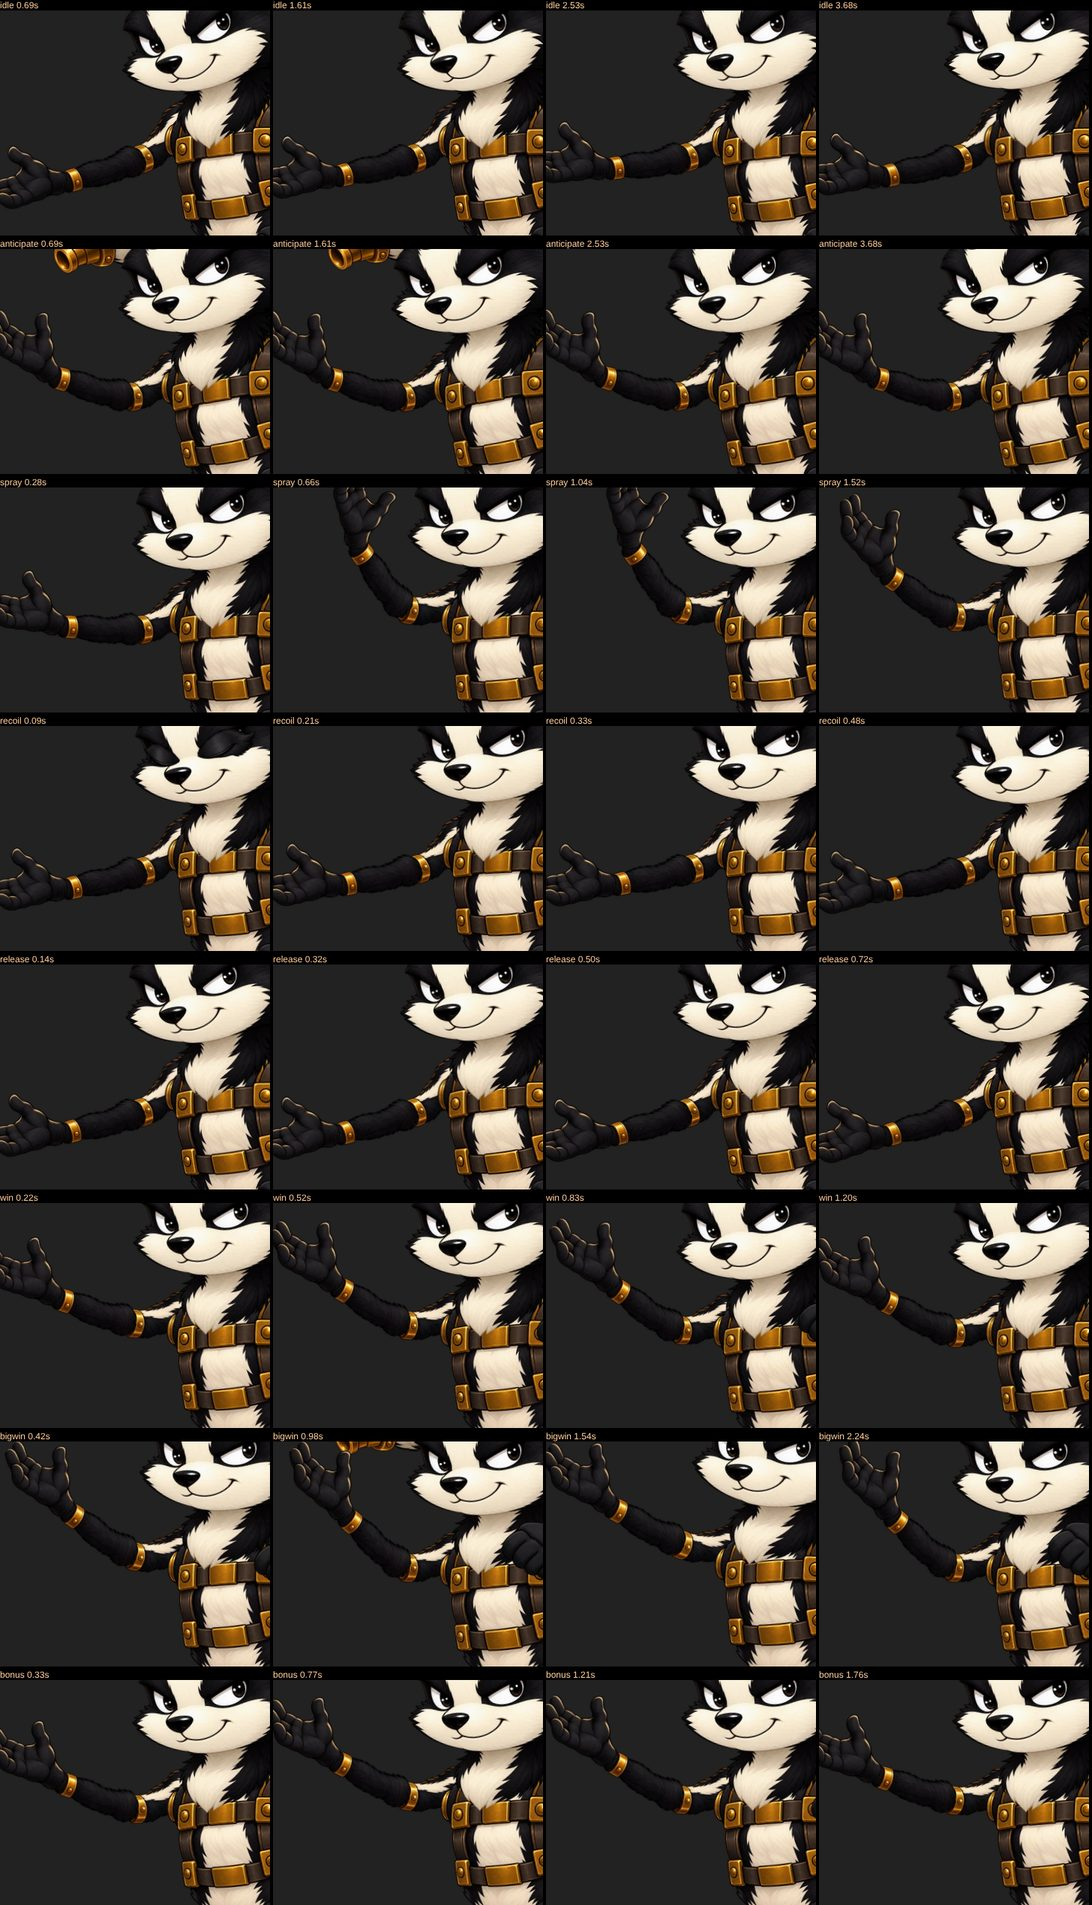
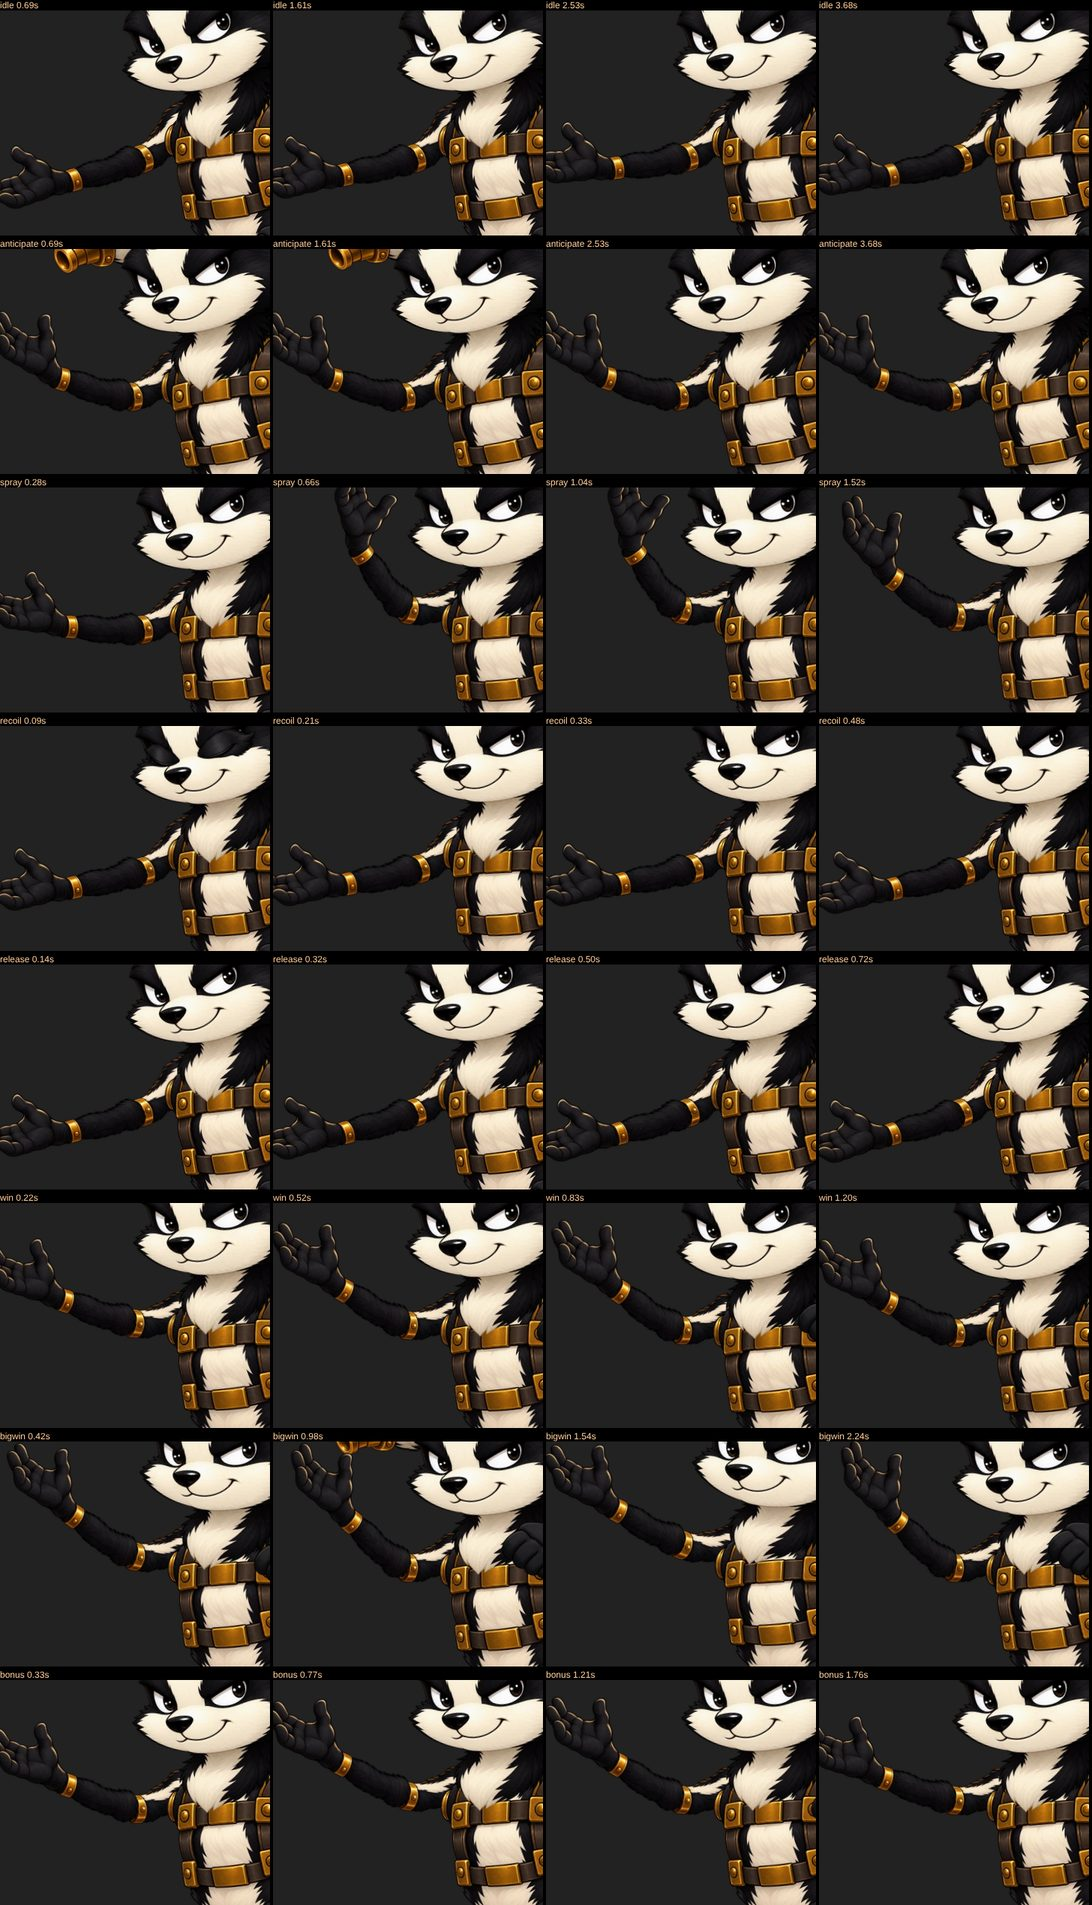
Cyber Skunk: the hand's wrist meets the wrist ring
Dylan: the hand is slightly off as well. A sliver of the forearm's fur
stub showed between the wrist ring and the hand. The hand moves 8 px in
(86 px out, 54 px up from the source): it covers the stub (all but 2 px)
and none of the ring's gold. far_wrist moves with it to (1370, 1138); the
prep report is clean.

Checked in the game at 1920x1080, 1366x768 and 390x844 and in every clip;
Cyber Skunk tests, browser suite and npm test pass. Shots updated.

Claude-Session: https://claude.ai/code/session_01VtfKXneEeV8QdFHoWz2f6r

diff --git a/slots/tools/art/cyber-skunk-fit-v4.py b/slots/tools/art/cyber-skunk-fit-v4.py
@@ -25,7 +25,7 @@ RIG = GAME / "art" / "rig"
 J = {
     "base": (850, 1250), "neck": (900, 955), "ear": (825, 545), "far_ear": (1092, 530), "goggles": (940, 600), "eyes": (920, 800),
     "near_shoulder": (705, 975), "near_elbow": (550, 1150), "near_wrist": (695, 1263),
-    "far_shoulder": (1040, 1005), "far_elbow": (1178, 1093), "far_wrist": (1378, 1138),
+    "far_shoulder": (1040, 1005), "far_elbow": (1178, 1093), "far_wrist": (1370, 1138),
     "tail_root": (738, 1160), "tail_1": (480, 955), "tail_2": (600, 415), "tail_tip": (1190, 443),
 }
 JOINT_OF = {
@@ -58,10 +58,11 @@ NOZZLE_MOUTH = (1339, 427)  # the opening's centre, as delivered
 # the forearm's end covers the cap (88% of it, 4% of the ring) and comes out of the
 # ring. far_elbow is the cap's centre, so a bent forearm keeps covering it.
 # The wrist ("look at the hand now") had the same fault: the hand hung 25 px below the
-# forearm's wrist ring and covered most of it. The hand moves a further 52 px out and
-# 22 px up, so it covers the forearm's fur stub past the ring (92%) and leaves the
-# ring showing (4% covered); far_wrist is where the hand covers that stub.
-ARM_FIT = {"far-forearm": (42, -32), "far-hand": (94, -54)}
+# forearm's wrist ring and covered most of it. The hand moves a further 44 px out and
+# 22 px up ("slightly off" at 52 out: the stub showed between ring and hand), so its
+# wrist meets the ring: it covers the forearm's fur stub past the ring (all but 2 px)
+# and none of the ring's gold. far_wrist is where the hand covers that stub.
+ARM_FIT = {"far-forearm": (42, -32), "far-hand": (86, -54)}
 
 
 def fit_nozzle():

diff --git a/slots/games/cyber-skunk/ART_SPEC.md b/slots/games/cyber-skunk/ART_SPEC.md
@@ -27,7 +27,7 @@
 > - **Fitted pieces:** the fit tool writes corrected copies of four pieces to `art/rig/fitted/`, and prep uses those instead of the sources:
 >   - **`eyelids`:** each lid moved onto its eye.
 >   - **`nozzle`:** the back stub is removed and the nozzle moves 8 px left and 26 px down. Its collar now sits on the tail's centre line (y ≈ 441) and closes round the tip like a cuff, with the fur shaded where it goes in. The `tail_tip` joint (1190, 443) is the centre of the collar's rear rim, and the jet leaves from the mouth (1331, 453).
->   - **`far-forearm` and `far-hand` (2026-11-03):** the upper arm ends in a metal ring (with its rivet) and a round cap. As delivered, the forearm sat below the cap, so its rounded end stuck out toward the body and the arm looked disconnected on desktop. The forearm moves 42 px in and 32 px up. Still drawn in front of the upper arm, it covers the round cap and leaves only the ring showing, as Dylan asked. `far_elbow` is the cap's centre (1178, 1093), so a bent forearm keeps covering it. The hand had the same fault at the wrist: it hung below the forearm's wrist ring and covered most of it. It moves 94 px out and 54 px up, so it covers the fur stub past the ring and the ring shows. `far_wrist` is where it covers that stub (1378, 1138).
+>   - **`far-forearm` and `far-hand` (2026-11-03):** the upper arm ends in a metal ring (with its rivet) and a round cap. As delivered, the forearm sat below the cap, so its rounded end stuck out toward the body and the arm looked disconnected on desktop. The forearm moves 42 px in and 32 px up. Still drawn in front of the upper arm, it covers the round cap and leaves only the ring showing, as Dylan asked. `far_elbow` is the cap's centre (1178, 1093), so a bent forearm keeps covering it. The hand had the same fault at the wrist: it hung below the forearm's wrist ring and covered most of it. It moves 86 px out and 54 px up, so its wrist meets the ring: it covers the fur stub past the ring and none of the ring's gold. `far_wrist` is where it covers that stub (1370, 1138).
 >   - **If you repaint any of these,** draw it already on its mark and say so; Claude then retires its fitted copy.
 > - **Improvements go in the same folder under the same names**, and the next prep run picks them up:
 >   - **A separate `jaw`** (and the head without its lower jaw) would let the mouth open. Say so and the contract gains it.

diff --git a/slots/collab/HANDOFF.md b/slots/collab/HANDOFF.md
@@ -12,8 +12,8 @@ Newest on top. Format is in `AGENTS.md`.
 - **The cause:** the upper arm ends in a metal ring (with a rivet) and a round cap, and the forearm ends in a wrist ring. As delivered, the forearm sat below the cap with its rounded end sticking out toward the body, and the hand hung below the wrist ring and covered most of it. Both joints read as loose pieces, which the large desktop mascot made obvious.
 - **The fix,** the same way as the nozzle: the fit tool writes moved copies to `art/rig/fitted/`, and the draw order is unchanged.
   - `far-forearm` moves 42 px in and 32 px up. Its end covers the round cap, so only the elbow ring shows.
-  - `far-hand` moves 94 px out and 54 px up. It covers the forearm's fur stub past the wrist ring, so the wrist ring shows.
-  - The joints moved too: `far_elbow` is the cap's centre (1178, 1093), so a bent forearm keeps covering it, and `far_wrist` is where the hand covers the stub (1378, 1138).
+  - `far-hand` moves 86 px out and 54 px up, so its wrist meets the ring. It covers the forearm's fur stub past the ring and none of the ring's gold. Dylan: "The hand is slightly off as well"; at 94 out, a sliver of the stub showed.
+  - The joints moved too: `far_elbow` is the cap's centre (1178, 1093), so a bent forearm keeps covering it, and `far_wrist` is where the hand covers the stub (1370, 1138).
 - **Checked:**
   - In the game at 1920×1080, 1366×768 and 390×844.
   - Every clip (idle, anticipate, spray, recoil, release, win, bigwin, bonus), each at four moments: both rings show and the forearm and hand come out of them.

diff --git a/slots/games/cyber-skunk/art/rig/fit-v4.1.md b/slots/games/cyber-skunk/art/rig/fit-v4.1.md
@@ -10,7 +10,7 @@ ChatGPT's 16 pieces as delivered, with each joint where the piece overlaps its p
 | nozzle | tail_tip | 1190, 443 | 50% | 86% |
 | far-upper-arm | far_shoulder | 1040, 1005 | 83% | 79% |
 | far-forearm | far_elbow | 1178, 1093 | 56% | 51% |
-| far-hand | far_wrist | 1378, 1138 | 43% | 38% |
+| far-hand | far_wrist | 1370, 1138 | 43% | 43% |
 | torso | base | 850, 1250 | 100% | — |
 | head | neck | 900, 955 | 100% | 100% |
 | far-ear | far_ear | 1092, 530 | 66% | 81% |
